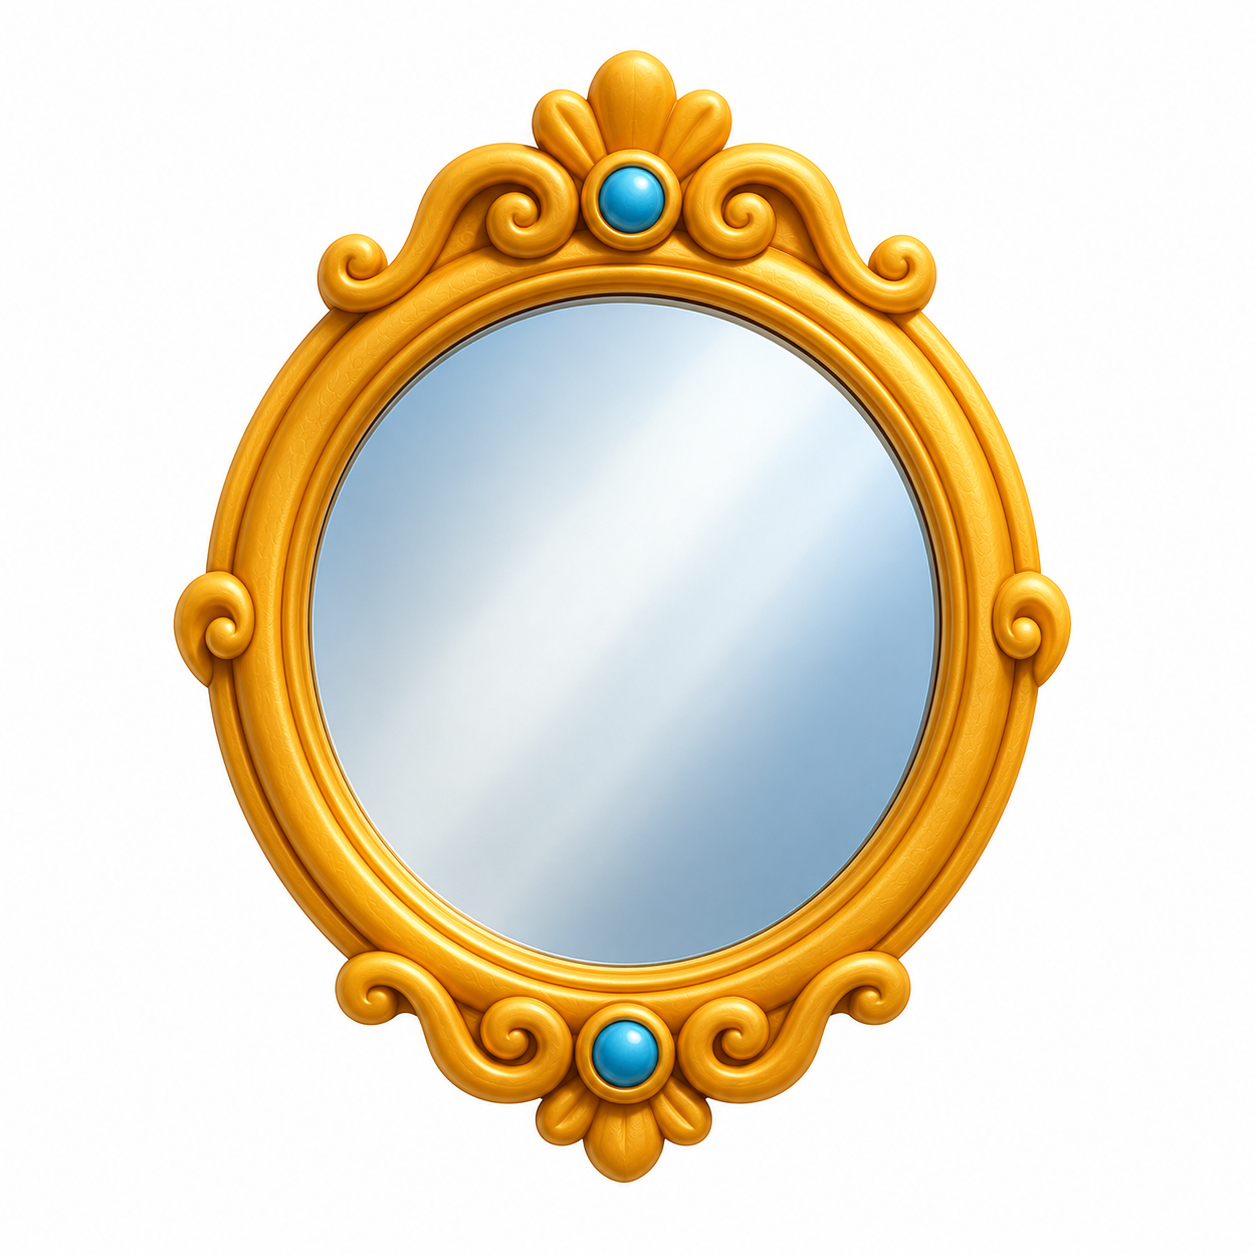
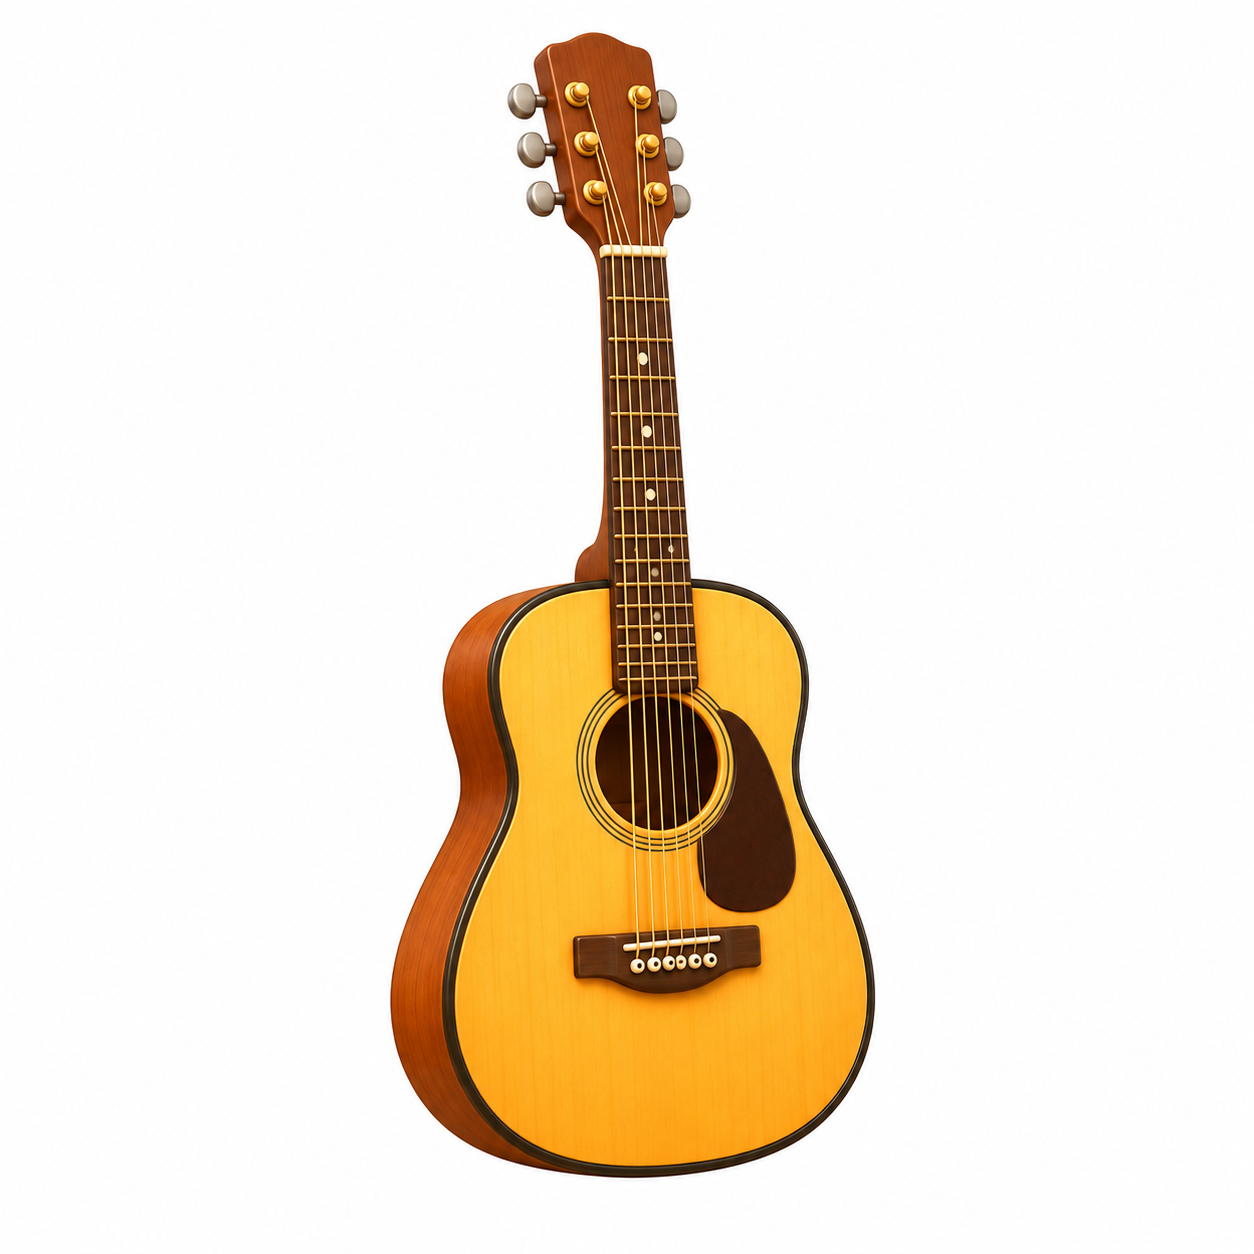
Fix whatneeds layout: no-scroll, larger tiles, correct images
- rain_cloud.png and mirror.png replaced with correct Pixar-style images
- CSS: cross width 380→460px, side tiles 95→108px, center height →270px
- object-fit: cover on center child image (removes white padding)
- Hide active-game-title when whatneeds cross is active (saves ~25px)
- Surround object images enlarged from 78% to 90% fill
- sw.js bumped to v32

diff --git a/index.html b/index.html
@@ -73,13 +73,14 @@
         body.bg-whatneeds { background: linear-gradient(135deg, #fce4ec 0%, #e1f5fe 100%); }
 
         /* ── מה קשור? Game ── */
+        #active-game-container:has(.wn-cross) #active-game-title { display: none; }
         .wn-cross {
             display: flex;
             flex-direction: column;
             align-items: center;
             gap: clamp(5px, 1.2vmin, 10px);
-            margin: 0 auto 10px;
-            width: min(84vw, 380px);
+            margin: 0 auto 8px;
+            width: min(90vw, 460px);
         }
         .wn-cross-middle {
             display: flex;
@@ -103,14 +104,14 @@
             border: 2px solid #ddd;
         }
         .wn-tile-side {
-            width: clamp(68px, 20vw, 95px);
-            height: clamp(68px, 20vw, 95px);
+            width: clamp(78px, 22vw, 108px);
+            height: clamp(78px, 22vw, 108px);
             gap: 3px;
             padding: 5px;
         }
         .wn-tile-center {
             flex: 1;
-            height: clamp(170px, 46vw, 260px);
+            height: clamp(170px, 46vw, 270px);
             border: 4px solid #e91e63;
             background: #fff;
             box-shadow: 0 4px 14px rgba(233,30,99,0.25);
@@ -120,6 +121,7 @@
             height: 100%;
             object-fit: contain;
         }
+        .wn-tile-center img { object-fit: cover; }
         .wn-tile-emoji { font-size: clamp(26px, 7vmin, 46px); line-height: 1; }
         .wn-tile-obj-label { font-size: clamp(9px, 2.2vmin, 13px); font-weight: 700; color: #555; text-align: center; }
         .wn-choices {
@@ -131,8 +133,8 @@
             margin-top: 4px;
         }
         .wn-choice-btn {
-            width: clamp(72px, 19vmin, 118px);
-            height: clamp(72px, 19vmin, 118px);
+            width: clamp(80px, 20vmin, 124px);
+            height: clamp(80px, 20vmin, 124px);
             background: #fff;
             border: 3px solid #e91e63;
             border-radius: 18px;
@@ -6931,7 +6933,7 @@
                 let tile = D.createElement('div');
                 tile.className = 'wn-tile wn-tile-side';
                 if (obj.img) {
-                    tile.innerHTML = `<img src="${obj.img}" alt="${obj.label}" style="width:78%;height:78%;object-fit:cover;border-radius:10px;"><span class="wn-tile-obj-label">${obj.label}</span>`;
+                    tile.innerHTML = `<img src="${obj.img}" alt="${obj.label}" style="width:90%;height:90%;object-fit:cover;border-radius:10px;"><span class="wn-tile-obj-label">${obj.label}</span>`;
                 } else {
                     tile.innerHTML = `<span class="wn-tile-emoji">${obj.emoji}</span><span class="wn-tile-obj-label">${obj.label}</span>`;
                 }

diff --git a/sw.js b/sw.js
@@ -1,4 +1,4 @@
-const CACHE_NAME = 'roy-games-v31';
+const CACHE_NAME = 'roy-games-v32';
 const ASSETS_TO_CACHE = [
   './',
   './index.html'